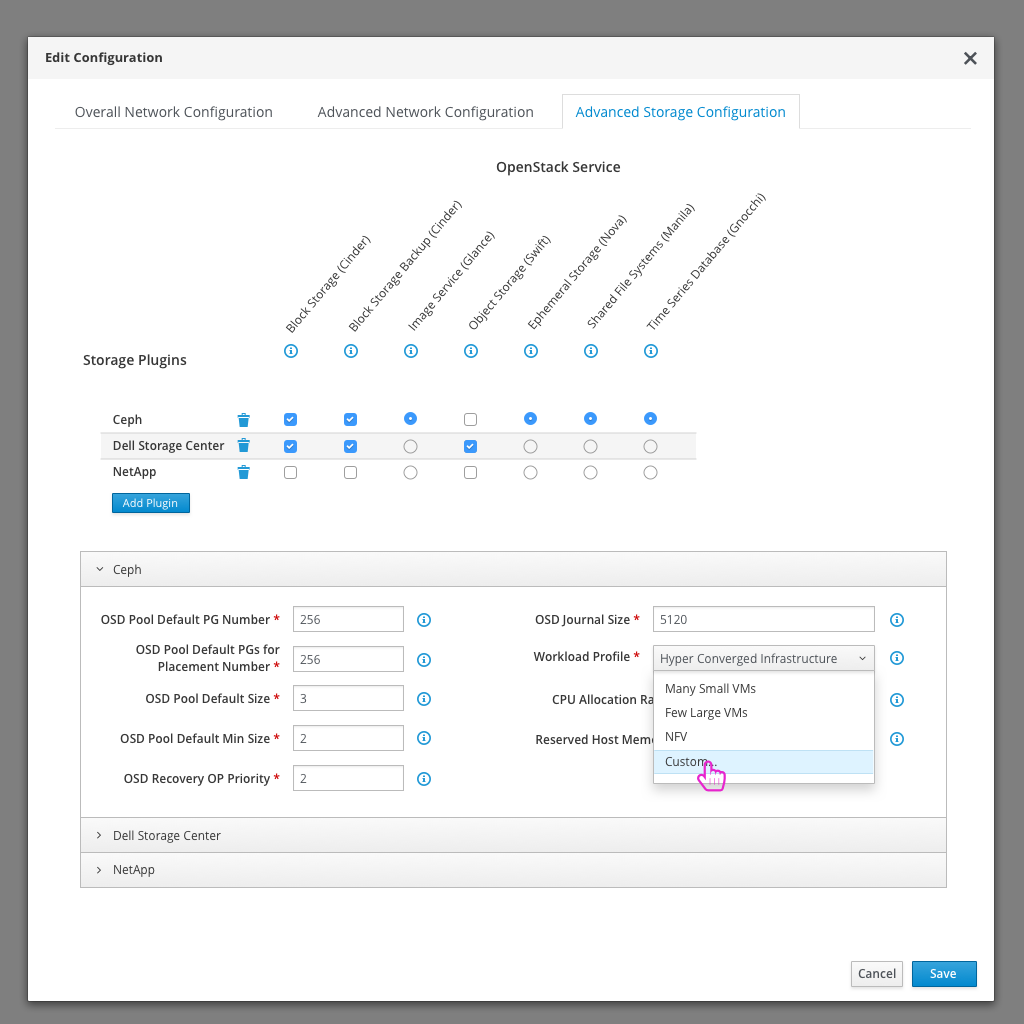
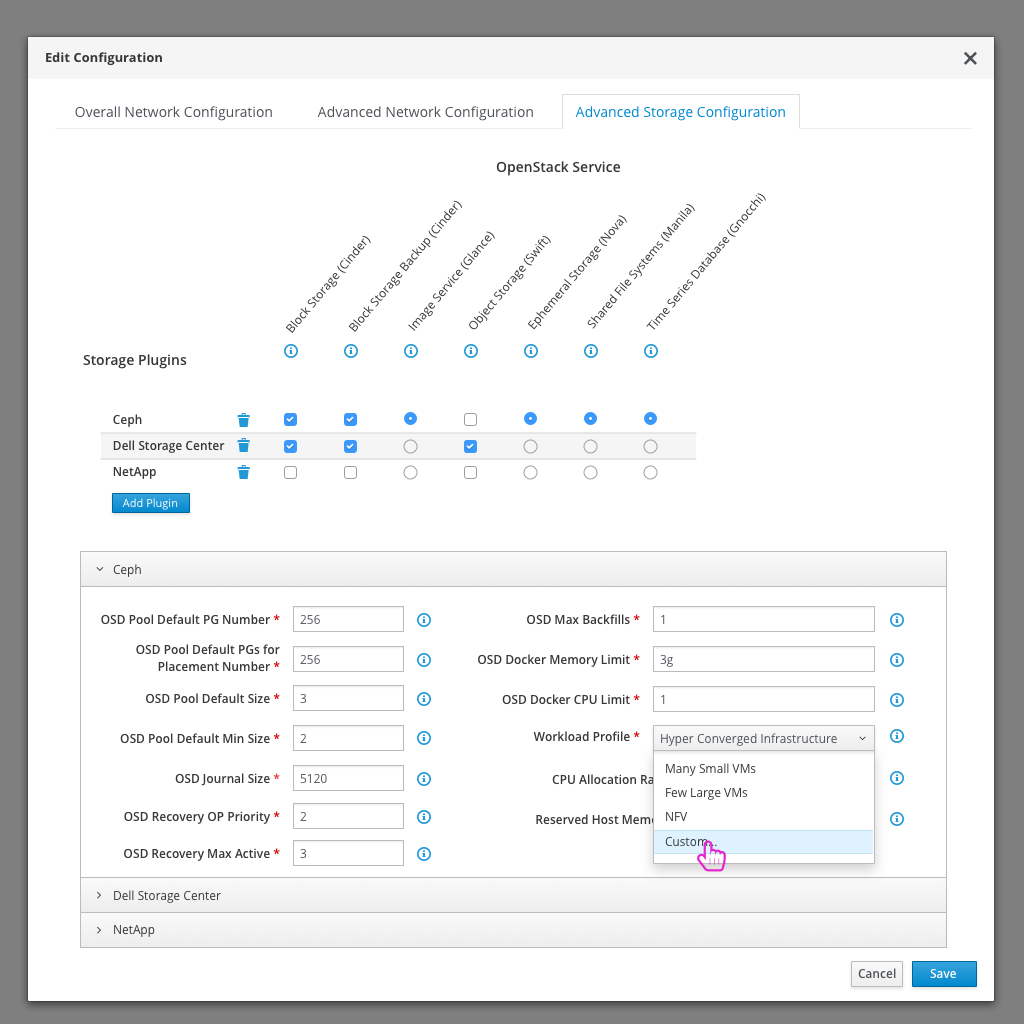
Updates to Ceph Tuning Paramaters and Disk Selection

Changed region(s): [[0.4688, 0.5938, 0.875, 0.875], [0.0938, 0.75, 0.3125, 0.9375], [0.4062, 0.7812, 0.4375, 0.8438]]

diff --git a/tripleo-ui/5-popular-use-cases/7.CephLayoutTuning.md b/tripleo-ui/5-popular-use-cases/7.CephLayoutTuning.md
@@ -27,11 +27,17 @@ Today, the user needs to select to use Ceph at a high level configuration, and t
 ![editconfigurationmodal2](img/Ceph-Storage-Configure_Storage3.png)
 - After any changes have been made, the user can save this configuration.
 
-![editconfiguration](img/Ceph-Storage-Deployment_Plan2.png)
+![nodes](img/Ceph-Storage-Deployment_Plan2.png)
 - Jumping over to the Nodes section, the user can view a list of nodes that have been registered.
 
-![editconfiguration](img/Ceph-Storage-Nodes.png)
+![configuredisks](img/Ceph-Storage-Nodes.png)
 - From the Nodes view, one option that a user can take on a Node or set of Nodes is to view the Disks.
 
-![editconfiguration](img/Ceph-Storage-Configure_Disks.png)
+![configuredisksmodal](img/Ceph-Storage-Configure_Disks.png)
 - Something specific to Ceph storage that a user could define for disks is whether it is marked for Co-Location, Dedicated Journal, or Exclusion.
+
+![markformodal](img/Ceph-Storage-Configure_Disks_Confirm.png)
+- If there are a number of other disks that share the same profile as the disk that is being marked, the user will be asked if they'd like to mark all of those for Co-Location as well.
+- Hovering over the number of disks will show a list of disk names for user confirmation.
+
+![markformodal2](img/Ceph-Storage-Configure_Disks_Confirm2.png)
